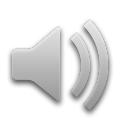
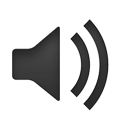
commit

diff --git a/index.html b/index.html
@@ -12,15 +12,7 @@
 </head>
 
 <body>
-
-<audio src="assets/img/shifumiAudio.mp3" autoplay="1"></audio>
-<!-- <a onclick="myAudioFunction('play');">
-    <img src="assets/img/speakerOn.png">
-</a>
-<a onclick="myAudioFunction('pause');">
-    <img src="B.jpg">
-</a>
-<a href="#" id="audioControl" autoplay="1">play!</a> -->
+    <audio src="assets/img/shifumiAudio.mp3" autoplay="1"></audio>
     <main class="container-fluid text-center align-self-center">
         <div class="row">
             <div class="col-12 col-md-7">
@@ -59,10 +51,27 @@
                             src="assets/img/Ciseaux.png">
                     </div>
                 </div>
-            <!-- COL FOR IMG -->
-            <div class="col-12 copyright">
-                &#169;FERRARIOLoïc-05/22
-            </div>
+                <!-- COL FOR IMG -->
+                <div class="col-12">
+                    <div class="row">
+                        <div class="col-5 copyright">
+                            &#169;FERRARIOLoïc-05/22
+                        </div>
+                        <div class="col-2">
+                            <img id="audioControl" src="assets/img/speakerOn.png">
+                        </div>
+                        <div class="col-5 switch-holder">
+                            <div class="switch-label">
+                                <i class="fa fa-bluetooth-b"></i><span>Joke Mode</span>
+                            </div>
+                            <div class="switch-toggle">
+                                <input type="checkbox" id="bluetooth">
+                                <label for="bluetooth"></label>
+                            </div>
+                        </div>
+                    </div>
+                </div>
+        
             </div>
 
 

diff --git a/assets/css/style.css b/assets/css/style.css
@@ -109,6 +109,7 @@ html {
     #choiceHuman {
         animation: waitingPlay 3s ease 1s infinite normal forwards;
     }
+
     .imgShifumiResultPlayerWin {
         width: 150%;
         text-align: right;
@@ -335,6 +336,10 @@ html {
     align-self: flex-end;
 }
 
+#audioControl {
+    width: 40%;
+}
+
 
 @keyframes waitingPlay {
     0% {
@@ -477,4 +482,63 @@ html {
     100% {
         transform: scale3d(1, 1, 1);
     }
+}
+
+
+
+/* JOKE MODE */
+.switch-holder {
+    display: flex;
+    justify-content: end;
+    align-items: center;
+    background-color: blue;
+}
+
+.switch-label {
+    width: 100px;
+}
+
+.switch-toggle input[type="checkbox"] {
+    position: absolute;
+    opacity: 0;
+    z-index: -2;
+}
+
+.switch-toggle input[type="checkbox"]+label {
+    position: relative;
+    display: inline-block;
+    width: 50px;
+    height: 30px;
+    border-radius: 20px;
+    margin: 0;
+    cursor: pointer;
+    box-shadow: inset -8px -8px 15px rgba(255, 255, 255, .6),
+        inset 10px 10px 10px rgba(0, 0, 0, .25);
+
+}
+
+.switch-toggle input[type="checkbox"]+label::before {
+    position: absolute;
+    content: 'Off';
+    font-size: 13px;
+    text-align: center;
+    line-height: 25px;
+    top: 3px;
+    left: 2px;
+    width: 25px;
+    height: 25px;
+    border-radius: 20px;
+    background-color: #d1dad3;
+    box-shadow: -3px -3px 5px rgba(255, 255, 255, .5),
+        3px 3px 5px rgba(0, 0, 0, .25);
+    transition: .3s ease-in-out;
+}
+
+.switch-toggle input[type="checkbox"]:checked+label::before {
+    left: 50%;
+    content: 'On';
+    color: #fff;
+    background-color: #00b33c;
+    box-shadow: -3px -3px 5px rgba(255, 255, 255, .5),
+        3px 3px 5px #00b33c;
 }

diff --git a/assets/js/player.js b/assets/js/player.js
@@ -22,3 +22,4 @@ $(documents).ready(function(){
     }
 
 })
+
